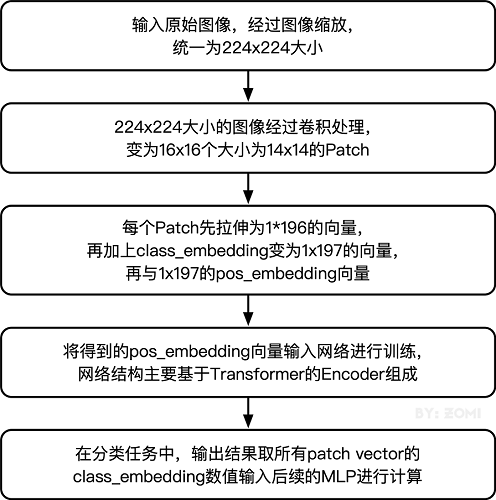
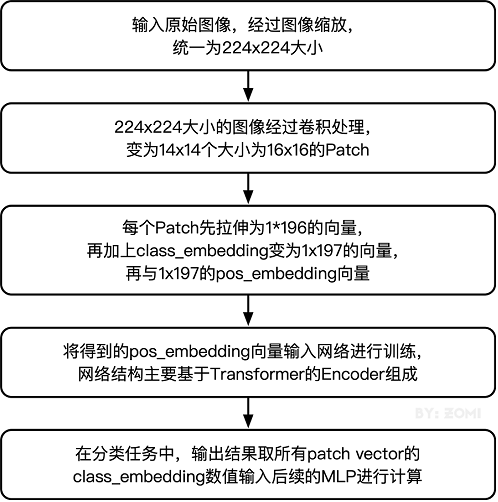
modify the contents in files 2.4.0

Changed region(s): [[0.0, 0.0, 1.0, 1.0]]

diff --git a/tutorials/source_en/cv/vit.md b/tutorials/source_en/cv/vit.md
@@ -310,9 +310,9 @@ The traditional Transformer structure is mainly used to deal with Word Embedding
 
 In the ViT model:
 
-1. By dividing the input image into 16*16 patches on each channel, this step is done by a convolution operation, which can of course be done manually, but the convolution operation can also serve the purpose while still allowing for the same data processing. **For example, an input 224 x 224 image is first convolved to get 16 x 16 patches, so the size of each patch is 14 x 14.**
+1. By dividing the input image into 16 x 16 patches on each channel, this step is done by a convolution operation, which can of course be done manually. However, convolutional operations can also serve the purpose while still allowing for data processing once and for all. **For example, an input 224 x 224 image is first convolved to get 14 x 14 patches, so the size of each patch is 16 x 16.**
 
-2. The matrix of each patch is then stretched into a 1-dimensional vector, thus obtaining an approximate word vector stacking effect. **The 14 x 14 patch obtained in the previous step is then converted to a vector of length 196.**
+2. The matrix of each patch is then stretched into a 1-dimensional vector, thus obtaining an approximate word vector stacking effect. **The series of patches of size 16 x 16 obtained in the previous step is then converted to a vector of length 196.**
 
 This is the first processing step of the image input network. The code for the specific Patch Embedding is shown below:
 
@@ -346,7 +346,7 @@ After the input image is divided into patches, it goes through two processes, po
 
 1. class_embedding mainly borrows from the BERT model for text classification, adding a class value before each word vector, usually in the first position of the vector. **The 196-dimensional vector obtained in the previous step becomes 197-dimension after adding class_embedding.**
 
-2. The added class_embedding is a parameter that can be learned. After continuous training of the network, the output of the first dimension in the output vector is ultimately used to determine the final output class. **Since the input is 16 x 16 patch, the output is classified by taking 16 x 16 class_embeddings for classification.**
+2. The added class_embedding is a parameter that can be learned. After continuous training of the network, the output of the first dimension in the output vector is ultimately used to determine the final output class. **Since the input is 14 x 14 patch, the output is classified by taking 14 x 14 class_embeddings for classification.**
 
 3. The pos_embedding is also a set of parameters that can be learned and will be added to the processed patch matrix.
 
